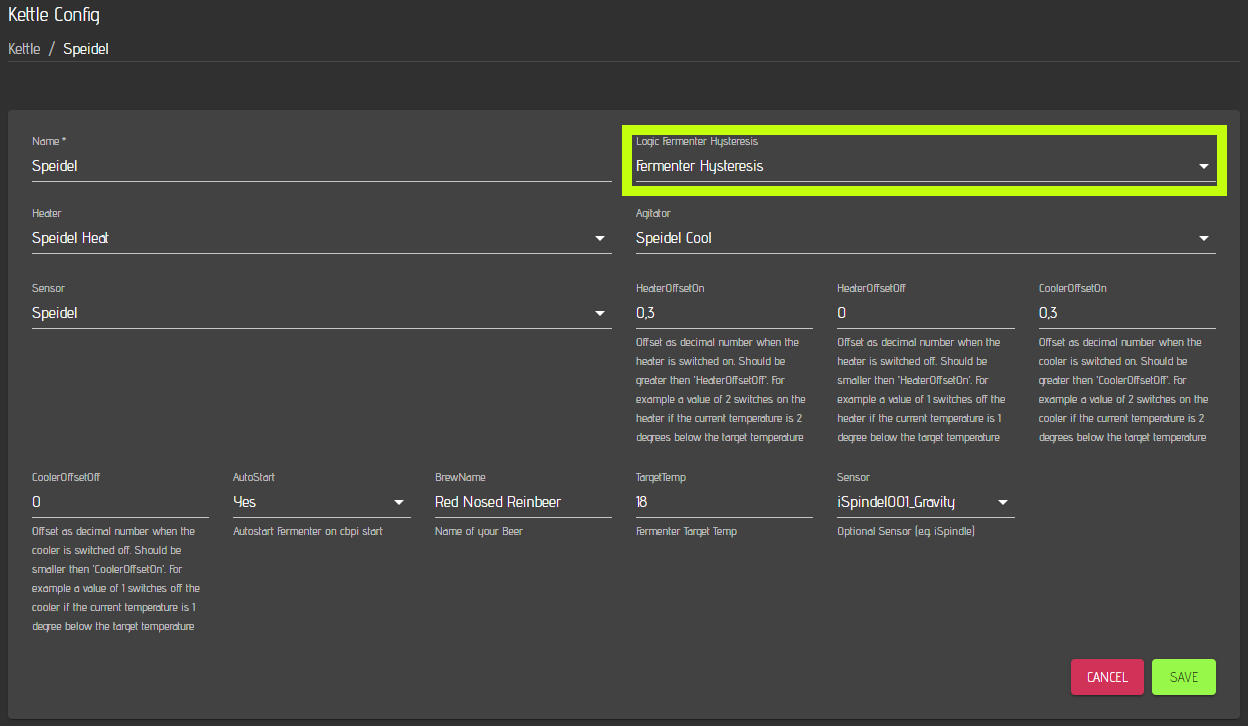
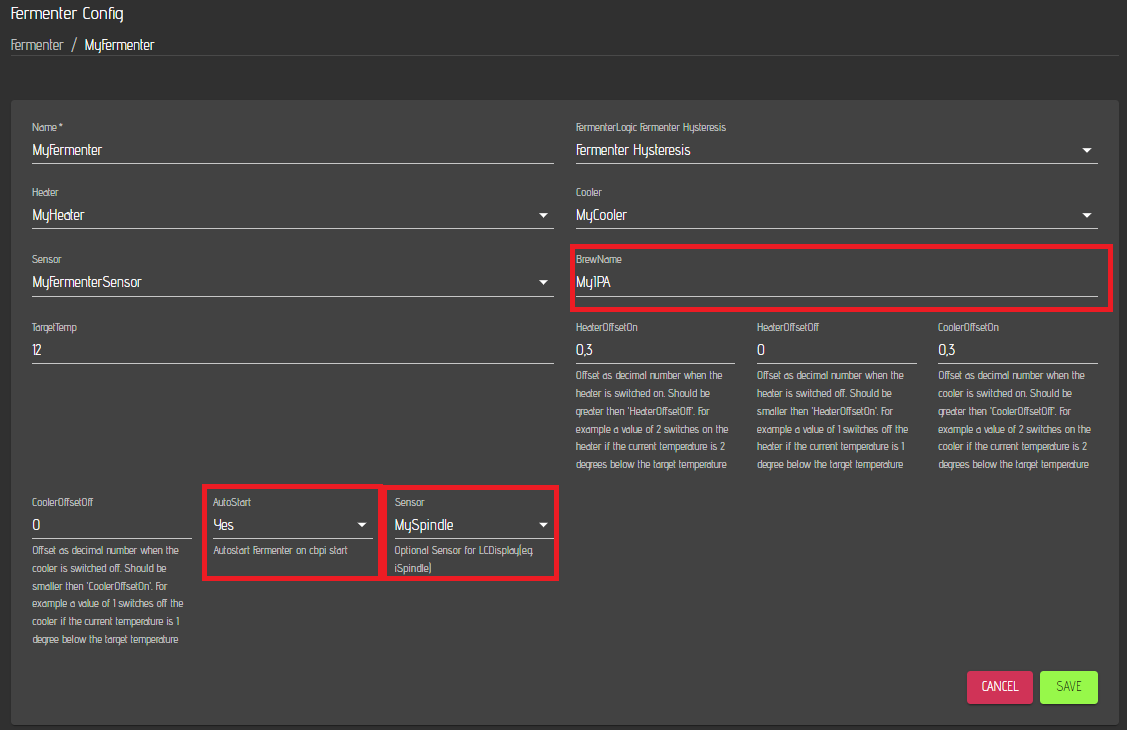
Operating the fermenter

diff --git a/master/operating-your-system.md b/master/operating-your-system.md
@@ -92,16 +92,13 @@ When the step is completed, the system will raise a notification that the brewin
 
 ## Use the system for fermentation
 
-As already mentioned in the [hardware section](craftbeerpi-4-server/hardware.md#setting-up-the-hardware-for-fermentation), CraftbeerPi 4 does not yet have a Fermenter Class. However, you can use the system for fermentation if you have installed the [Fermenter Hysteresis Plugin ](https://github.com/avollkopf/cbpi4-FermenterHysteresis)and use it as logic for a regular kettle.
+CraftbeerPi4 supports also fermentation iwth the Fermenter hardware and a corresponding fermenter logic. A simple fermentation hystersis logic is included with the server, but users can also write their own fermenter logic and install them as a plugin
 
-![Kettles with FermenterHysteresis Logic](../.gitbook/assets/cbpi4-operating-fermenter-hardware.png)
-
-The logic has some special settings for fermentation and you need to adapt just a few settings for each batch. Details on the other parameters have been already described [here](craftbeerpi-4-server/hardware.md#setting-up-the-hardware-for-fermentation). &#x20;
+The integrated logic has some special settings for fermentation and you need to adapt just a few settings for each batch. Details on the other parameters have been already described [here](craftbeerpi-4-server/hardware.md#setting-up-the-hardware-for-fermentation). &#x20;
 
 * If you want to start the fermenter logic automatically during reboot, you need to set AutoStart to 'Yes'. If you are not fermenting in your fermenter, the setting should be switched back to 'No'.
-* You need to set the TargetTemp to the desired temp for your fermentation. There is currently no possibility to set different temperatures for individual times.&#x20;
-* The BrewName can be set but will be only shown in the [modded LCDisplay Plugin ](https://github.com/avollkopf/cbpi4-LCDisplay)during fermentation.
-* The sensor property is only relevant, if you use the modded LCDisplay Plugin. Here you can select for instance an iSpindle Sensor and your Gravity is shown on the LCDisplay
+* The BrewName can be set in the logic but will be only shown in the [modded LCDisplay Plugin ](https://github.com/avollkopf/cbpi4-LCDisplay)during fermentation.
+* The additional sensor property is only relevant, if you use the modded LCDisplay Plugin. Here you can select for instance an iSpindle Sensor and your Gravity is shown on the LCDisplay
 
 ![Fermenter Hysteresis Settings](../.gitbook/assets/cbpi4-operating-fermenter-hysteresis.png)
 
@@ -111,12 +108,14 @@ You need to save your settings and go back to your [dashboard, where you did set
 
 In the dashboard example above you can see two fermenters that can be operated in parallel. If you have more, you can also define more fermenters.
 
-Above the Settings for the Speidel Fermenter have been shown. The target temperature was defined at 18°C. If you have now assigned the kettle control item to the Speidel fermenter as described [here](craftbeerpi-4-server/dashboard.md#creating-a-simple-fermenter-dashboard), you just need to clock on the car symbol to start the Automode.
+You need to set the TargetTemp to the desired temp for your fermentation via the fermenter control item. There is currently no possibility to run step based fermentation.&#x20;
+
+In this example the target temperature was defined at 12°C. If you have now assigned the femrenter control item to the Speidel fermenter as described [here](craftbeerpi-4-server/dashboard.md#creating-a-simple-fermenter-dashboard), you just need to click on the car symbol to start the Automode.
 
 ![Speidel Fermenter is working in Automode](../.gitbook/assets/cbpi4-operating-fermenter-automode.png)
 
-As soon, as the Automode is started, the target temp will change to the value you have specified in the logic settings. If you restart the system and have enabled Fermenter Autostart in the logic, the Automode will be started with the target temp specified in the logic settings.
+As soon, as the Automode is started, the logic will switch on the actor for cooling or heating to get to the desired target temp. If you restart the system and have enabled Fermenter Autostart in the logic, the Automode will be started with the target temp specified in the logic settings.
 
 {% hint style="info" %}
-There is currently no other way to run a fermentation. However, tests over a multiple batches have shown, that it is running very stable. Implementation of a fermenter class/item is work in progress, but there is currently no timeline available.
+There is currently no other way to run a fermentation. However, tests over a multiple batches have shown, that it is running very stable. Implementation of step based fermentation is planned, but there is currently no timeline available.
 {% endhint %}
